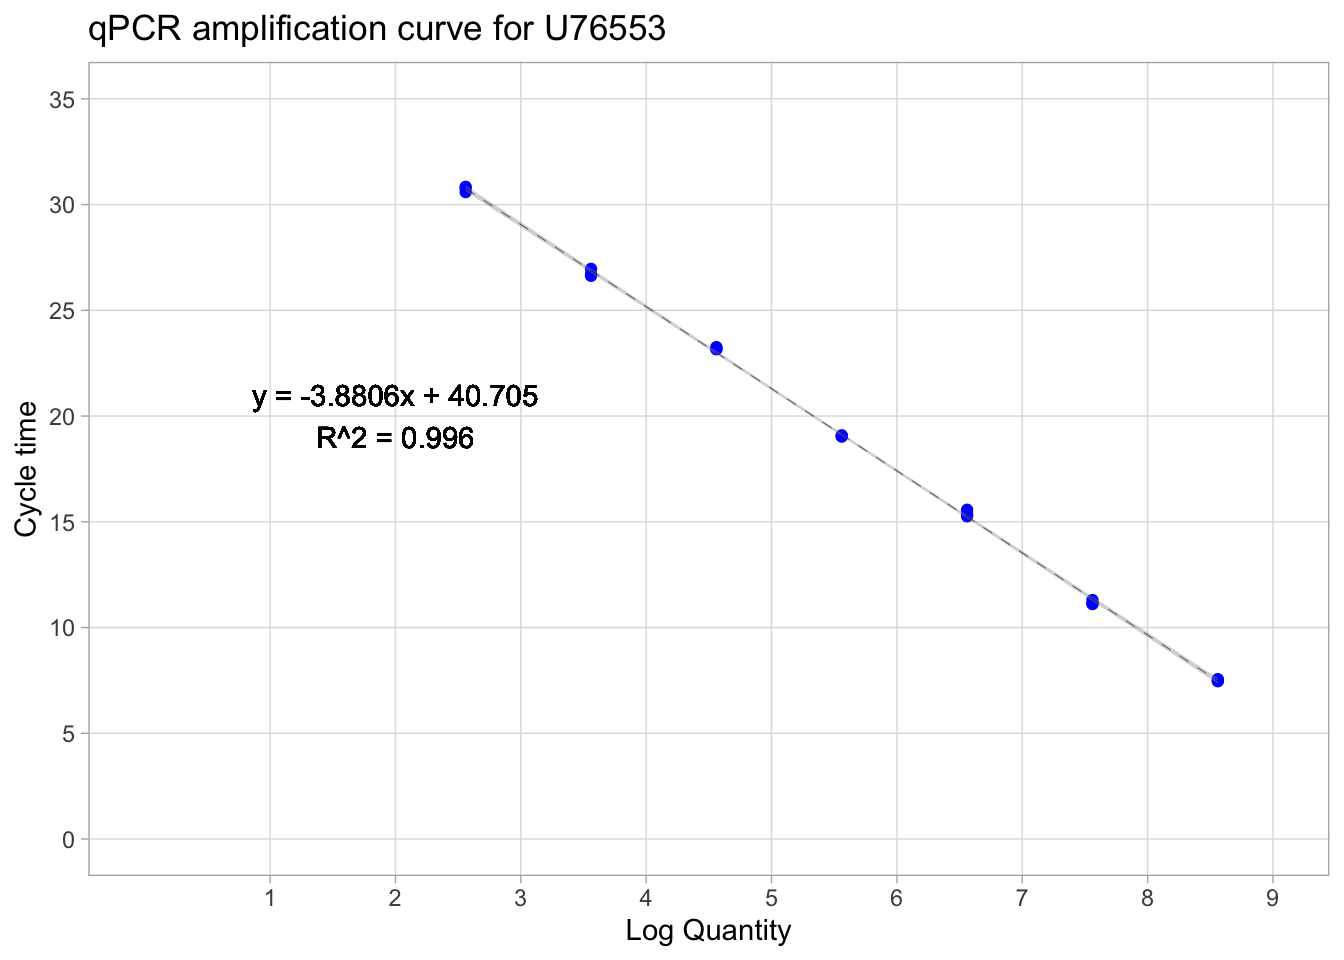
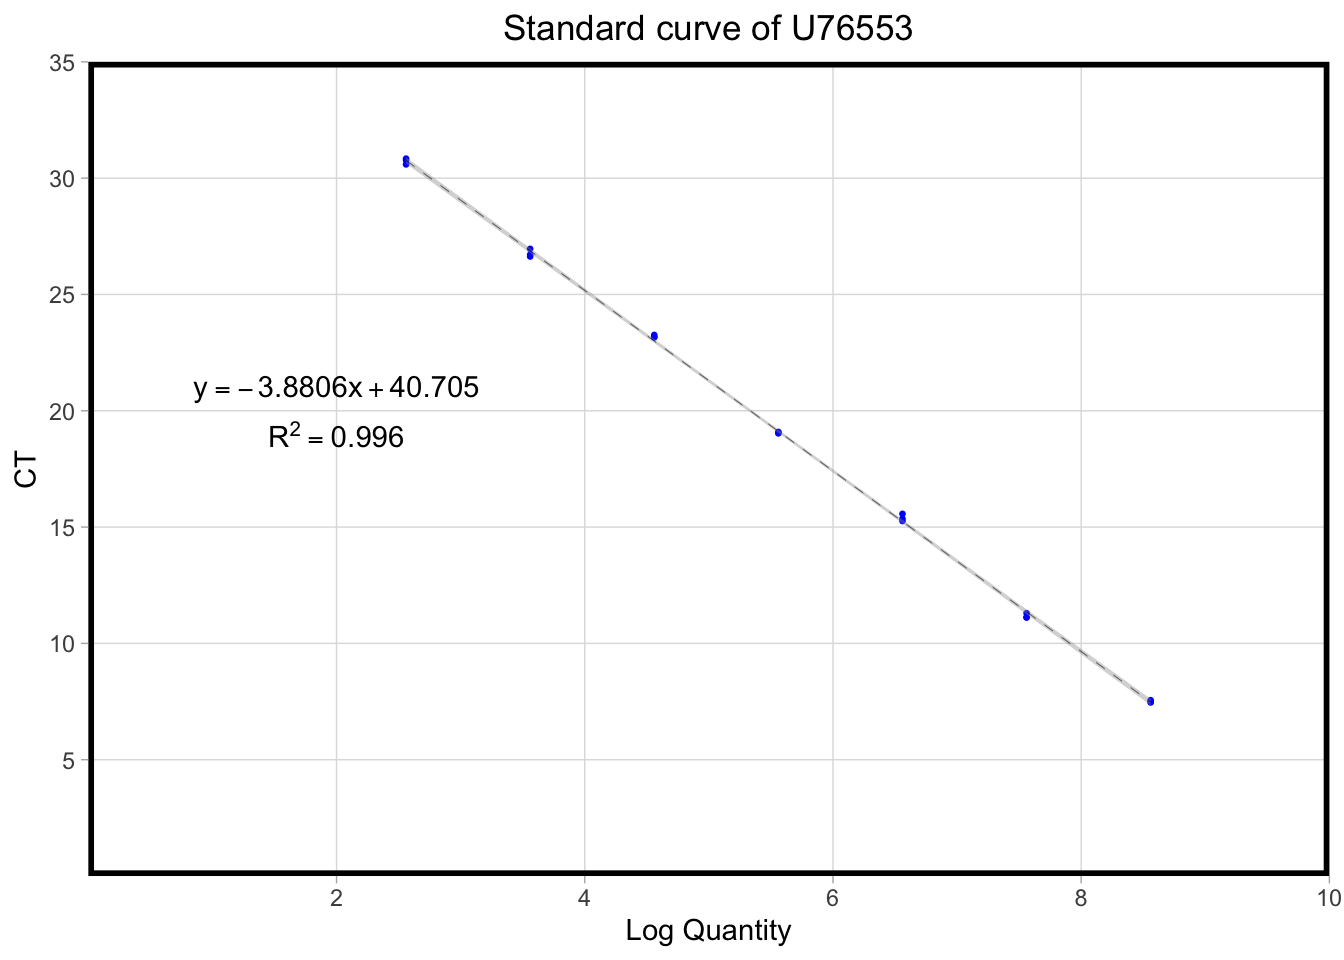
Change line label

diff --git a/docs/qpcr_plots.html b/docs/qpcr_plots.html
@@ -381,55 +381,41 @@ div.tocify {
 
 <div id="u76553-qpcr" class="section level1">
 <h1>U76553 qPCR</h1>
-<pre class="r"><code>U76553.qpcr_data &lt;- read.delim(&quot;data/U76553_qpcr_results.tsv&quot;)
-head(U76553.qpcr_data)</code></pre>
-<pre><code>##        qty log_qty    ct
-## 1 3.65e+08    8.56  7.49
-## 2 3.65e+08    8.56  7.46
-## 3 3.65e+08    8.56  7.56
-## 4 3.65e+07    7.56 11.11
-## 5 3.65e+07    7.56 11.13
-## 6 3.65e+07    7.56 11.30</code></pre>
+<pre class="r"><code>U76553.qpcr_data &lt;- read.delim(&quot;data/U76553_qpcr_results.tsv&quot;)</code></pre>
 <pre class="r"><code>ggplot(U76553.qpcr_data, aes(x = log_qty, y = ct)) + 
-  geom_point(color = &#39;blue&#39;) +
+  geom_point(color = &#39;blue&#39;, size = 0.5) +
   theme_light() + 
   geom_smooth(method = &#39;lm&#39;, color = &#39;black&#39;, size = 0.1,
               linetype = &#39;dashed&#39;) + 
-  coord_cartesian(xlim = c(0, 9), ylim = c(0, 35)) + 
-  scale_x_continuous(breaks = 1:9) +
-  scale_y_continuous(breaks = seq(0, 35, 5)) + 
+  scale_x_continuous(breaks = seq(2, 10, 2), expand = c(0, 0), limits = c(0, 10)) +
+  scale_y_continuous(breaks = seq(5, 35, 5), expand = c(0, 0), limits = c(0, 35)) + 
   labs(x = &quot;Log Quantity&quot;,
-       y = &quot;Cycle time&quot;,
-       title = &quot;qPCR amplification curve for U76553&quot;) + 
+       y = &quot;CT&quot;,
+       title = &quot;Standard curve of U76553&quot;) + 
   theme(panel.grid.minor = element_blank() ) + 
-  geom_text(x = 2, y = 20, label=&quot;y = -3.8806x + 40.705\nR^2 = 0.996&quot;)</code></pre>
+  annotate(&quot;text&quot;, x = 2, y = 20, label = &quot;atop(y == -3.8806 * x + 40.705, R^2 == 0.996)&quot;, parse = TRUE) +
+  theme(panel.border = element_rect(color = &quot;black&quot;, fill = NA, size = 2),
+        plot.title = element_text(hjust = 0.5))</code></pre>
 <pre><code>## `geom_smooth()` using formula &#39;y ~ x&#39;</code></pre>
 <p><img src="qpcr_plots_files/figure-html/unnamed-chunk-2-1.png" width="672" /></p>
 </div>
 <div id="ef175099-qpcr" class="section level1">
 <h1>EF175099 qPCR</h1>
-<pre class="r"><code>EF175099.qpcr_data &lt;- read.delim(&quot;data/EF175099_qpcr_results.tsv&quot;)
-head(EF175099.qpcr_data)</code></pre>
-<pre><code>##        qty log_qty    ct
-## 1 3.65e+08    8.56  8.03
-## 2 3.65e+08    8.56  8.14
-## 3 3.65e+08    8.56  8.09
-## 4 3.65e+07    7.56 11.41
-## 5 3.65e+07    7.56 11.40
-## 6 3.65e+07    7.56 11.45</code></pre>
+<pre class="r"><code>EF175099.qpcr_data &lt;- read.delim(&quot;data/EF175099_qpcr_results.tsv&quot;)</code></pre>
 <pre class="r"><code>ggplot(EF175099.qpcr_data, aes(x = log_qty, y = ct)) + 
-  geom_point(color = &#39;blue&#39;) +
+  geom_point(color = &#39;blue&#39;, size = 0.75) +
   theme_light() + 
   geom_smooth(method = &#39;lm&#39;, color = &#39;black&#39;, size = 0.1,
               linetype = &#39;dashed&#39;) + 
-  coord_cartesian(xlim = c(0, 9), ylim = c(0, 35)) + 
-  scale_x_continuous(breaks = 1:9) +
-  scale_y_continuous(breaks = seq(0, 35, 5)) + 
+  scale_x_continuous(breaks = seq(2, 10, 2), expand = c(0, 0), limits = c(0, 10)) +
+  scale_y_continuous(breaks = seq(5, 35, 5), expand = c(0, 0), limits = c(0, 35)) + 
   labs(x = &quot;Log Quantity&quot;,
-       y = &quot;Cycle time&quot;,
-       title = &quot;qPCR amplification curve for EF175099&quot;) + 
+       y = &quot;CT&quot;,
+       title = &quot;Standard curve of EF175099&quot;) + 
   theme(panel.grid.minor = element_blank() ) + 
-  geom_text(x = 2, y = 20, label=&quot;y = -3.7974x + 40.518\nR^2 = 0.9988&quot;)</code></pre>
+  annotate(&quot;text&quot;, x = 2, y = 20, label = &quot;atop(y == -3.7974 * x + 40.518, R^2 == 0.9988)&quot;, parse = TRUE) +
+  theme(panel.border = element_rect(color = &quot;black&quot;, fill = NA, size = 2),
+        plot.title = element_text(hjust = 0.5))</code></pre>
 <pre><code>## `geom_smooth()` using formula &#39;y ~ x&#39;</code></pre>
 <p><img src="qpcr_plots_files/figure-html/unnamed-chunk-4-1.png" width="672" /></p>
 </div>

diff --git a/docs/amoa_aob_phylogeny.html b/docs/amoa_aob_phylogeny.html
@@ -388,47 +388,15 @@ div.tocify {
 <pre class="r"><code>for (i in 1:length(amoa_tree$tip.label)){
   temp &lt;- unlist(str_split(amoa_tree$tip.label[i], &quot;_&quot;))
   org_name &lt;- str_c(temp[-c(1,2)], collapse = &quot; &quot;)
-  print(str_glue(&quot;{org_name} ({temp[2]})&quot;))
+  # print(str_glue(&quot;{org_name} ({temp[2]})&quot;))
   amoa_tree$tip.label[i] &lt;- str_glue(&quot;{org_name} ({temp[2]})&quot;)
 }</code></pre>
-<pre><code>## Nitrosomonas sp  TK794 (BAA92239)
-## uncultured ammonia-oxidizing bacterium (ACY38031)
-## uncultured bacterium (BAD15293)
-## uncultured bacterium (BAD14894)
-## Nitrosospira briensis (AAB38709)
-## uncultured ammonia-oxidizing bacterium (AFL48315)
-## uncultured ammonia-oxidizing bacterium (ADZ75352)
-## Nitrosospira multiformis ATCC 25196 (SEF68642)
-## Nitrosospira sp  Wyke8 (ABM54175)
-## Nitrosospira sp  NpAV (KIO48008)
-## Nitrosospira multiformis (AAC25057)
-## uncultured ammonia-oxidizing beta proteobacterium (ABN13016)
-## uncultured ammonia-oxidizing bacterium (ADZ75349)
-## uncultured ammonia-oxidizing beta proteobacterium (ABN11248)
-## uncultured ammonia-oxidizing beta proteobacterium (ABN12983)
-## uncultured Nitrosospira sp  (ABV49197)
-## uncultured ammonia-oxidizing bacterium (AGC92896)
-## Nitrosovibrio sp  FJI82 (ABB69924)
-## Nitrosomonas sp  AL212 (AAL86637)
-## uncultured ammonia-oxidizing beta proteobacterium (ABN13102)
-## uncultured proteobacterium (ABV90498)
-## uncultured ammonia-oxidizing beta proteobacterium (ABM91864)
-## uncultured ammonia-oxidizing beta proteobacterium (ABN13004)
-## uncultured soil bacterium (CAD62415)
-## Nitrosomonas cryotolerans ATCC 49181 (AAG60667)
-## uncultured soil bacterium (CAD62077)
-## uncultured ammonia-oxidizing bacterium (ADZ75355)
-## uncultured soil bacterium (CAD62114)
-## uncultured ammonia-oxidizing bacterium (AFL48409)
-## uncultured soil bacterium (CAD62411)
-## Nitrosococcus oceani ATCC 19707 (AAC25091)
-## Nitrosococcus halophilus Nc 4 (ADE13856)</code></pre>
 <pre class="r"><code>plotTree(amoa_tree, no.margin = TRUE,
          fsize = 1,
          lwd = 1) </code></pre>
-<p><img src="amoa_aob_phylogeny_files/figure-html/unnamed-chunk-3-1.png" width="672" /></p>
+<p><img src="amoa_aob_phylogeny_files/figure-html/unnamed-chunk-103-1.png" width="672" /></p>
 <pre class="r"><code>ggtree(amoa_tree, branch.length = &quot;none&quot;) + geom_tiplab()</code></pre>
-<p><img src="amoa_aob_phylogeny_files/figure-html/unnamed-chunk-4-1.png" width="672" /></p>
+<p><img src="amoa_aob_phylogeny_files/figure-html/unnamed-chunk-104-1.png" width="672" /></p>
 </div>
 
 <p><br>
